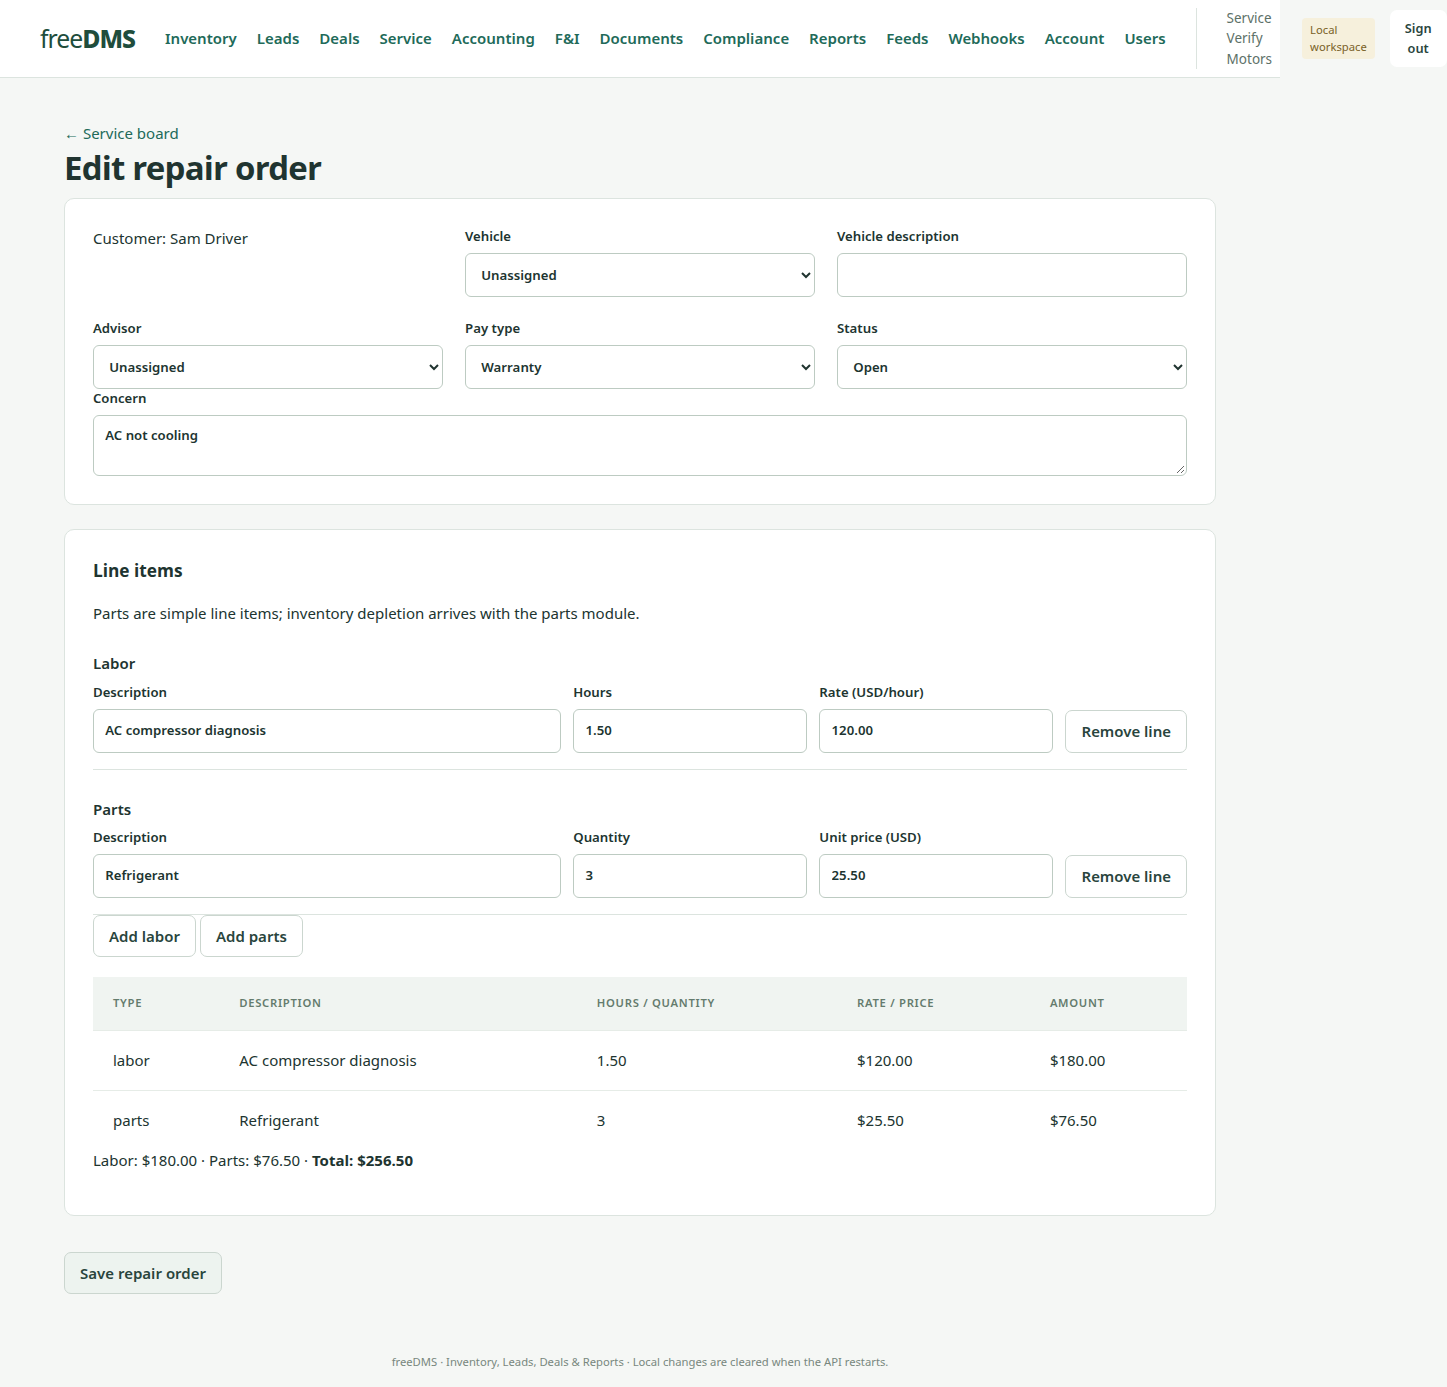
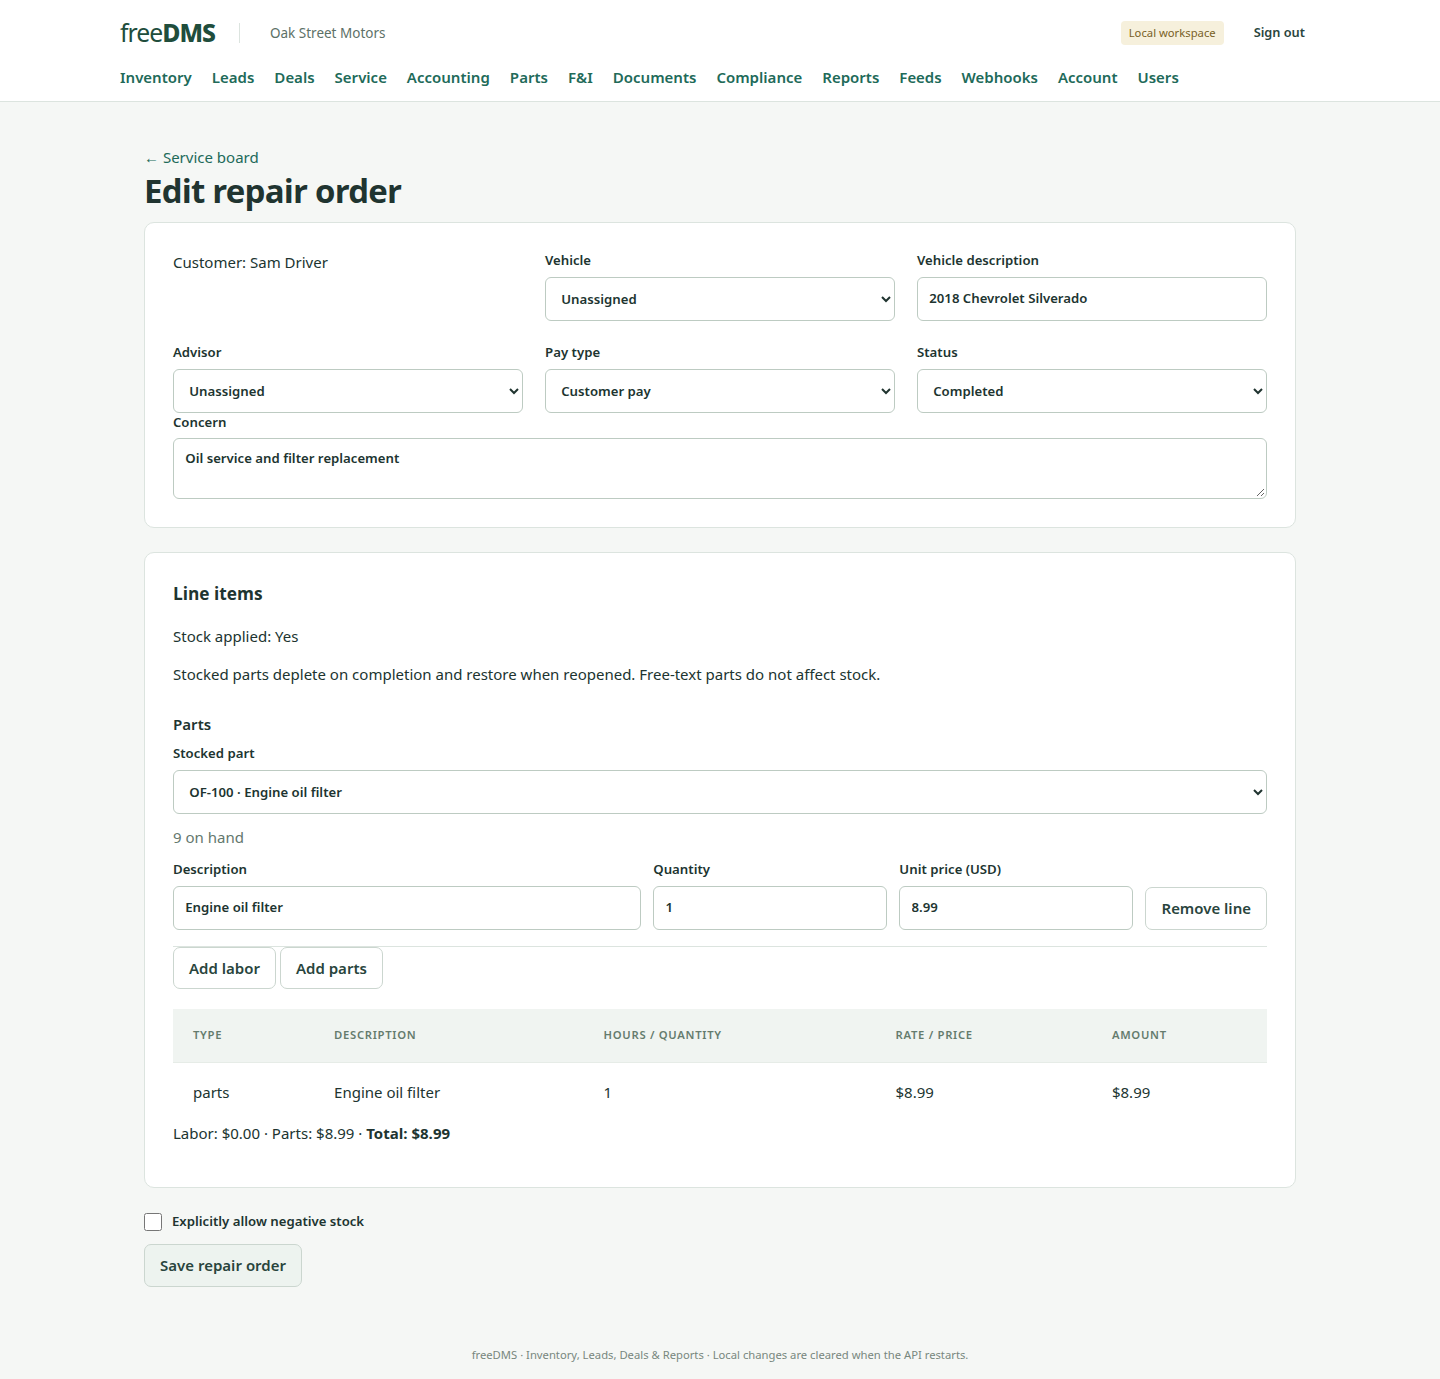
docs: add parts screenshots to README tour (#22)

diff --git a/README.md b/README.md
@@ -87,10 +87,22 @@ repair orders and totals.
 
 ![Service board](docs/screenshots/service-board.png)
 
-**Repair order** — line items for labor and parts with totals in cents. Parts are
-simple line items in this slice; inventory depletion arrives with the parts module.
+**Repair order** — labor, free-text parts, and stocked parts with on-hand hints.
+Completion applies stock once; reopening restores it. Negative stock requires an
+explicit override and leaves a visible warning.
 
 ![Repair order](docs/screenshots/repair-order.png)
+
+**Parts catalog** — workspace stock, bins, cost and retail prices, with reorder
+flags and a list that includes parts exactly at their reorder point.
+
+![Parts catalog and reorder list](docs/screenshots/parts-catalog.png)
+
+**Counter sales** — walk-in or customer sales with totals and atomic stock
+updates. This local example includes an explicitly overridden shortage and its
+visible warning; no vendor ordering or parts import is included.
+
+![Parts counter sales](docs/screenshots/parts-counter-sale.png)
 
 **Compliance** — the per-deal Red Flags checklist: dealer attestations for
 document inspection, address discrepancy, and privacy notice, a dealer-recorded
